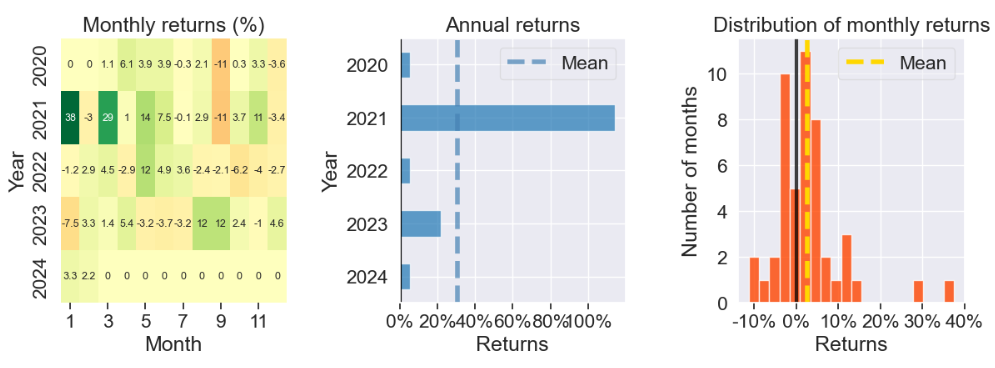
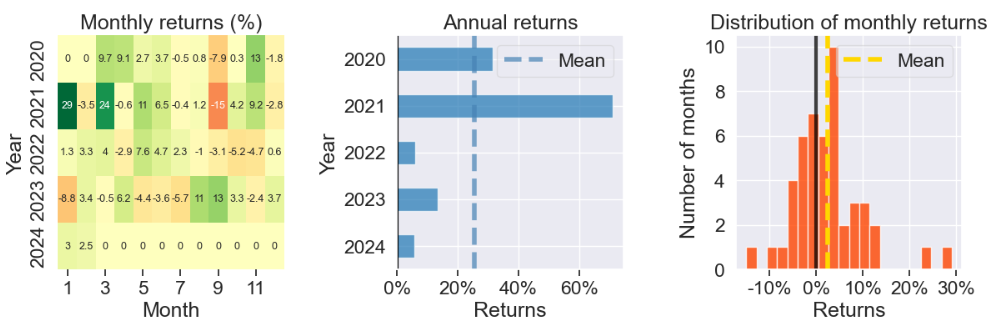
changes

diff --git a/_posts/2024-03-11-crypto-stat-arb-II.md b/_posts/2024-03-11-crypto-stat-arb-II.md
@@ -1,5 +1,5 @@
 ---
-image: "/./assets/images/CryptoStatArb/images_backtest/6_rolling_sharpe.png"
+image: "/./assets/images/CryptoStatArb/images_backtest/preview_ts.png"
 layout: post
 title: "Crypto Stat Arb Series II: Backtesting with a Trade Buffer"
 category: quant
